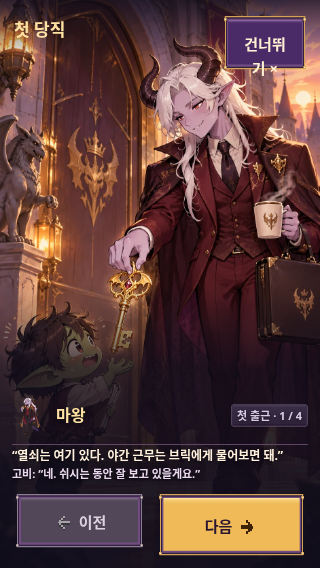
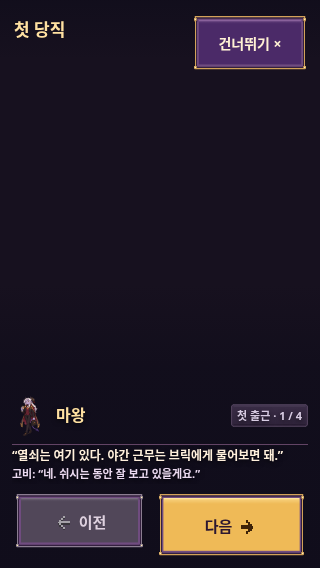
Keep enlarged story skip action on one line

diff --git a/roomy-buttons.css b/roomy-buttons.css
@@ -75,3 +75,9 @@
  #daily-events-close{font-size:0!important;display:grid!important;place-items:center!important}
  @media(max-width:350px){dialog .archive-tabs button{padding:16px 10px!important;font-size:11px!important}}
 }
+@layer enamel {
+ /* The story toolbar has a fixed compact action width in the legacy skin. */
+ #promo .comic-head{gap:12px!important;align-items:center!important}
+ #promo .comic-head>span{flex:1!important;min-width:0!important;overflow:hidden!important;text-overflow:ellipsis!important;white-space:nowrap!important}
+ #promo #promo-skip{width:auto!important;min-width:120px!important;max-width:none!important;height:60px!important;min-height:60px!important;padding:18px 20px!important;white-space:nowrap!important;line-height:24px!important;font-size:14px!important;flex-shrink:0!important}
+}
